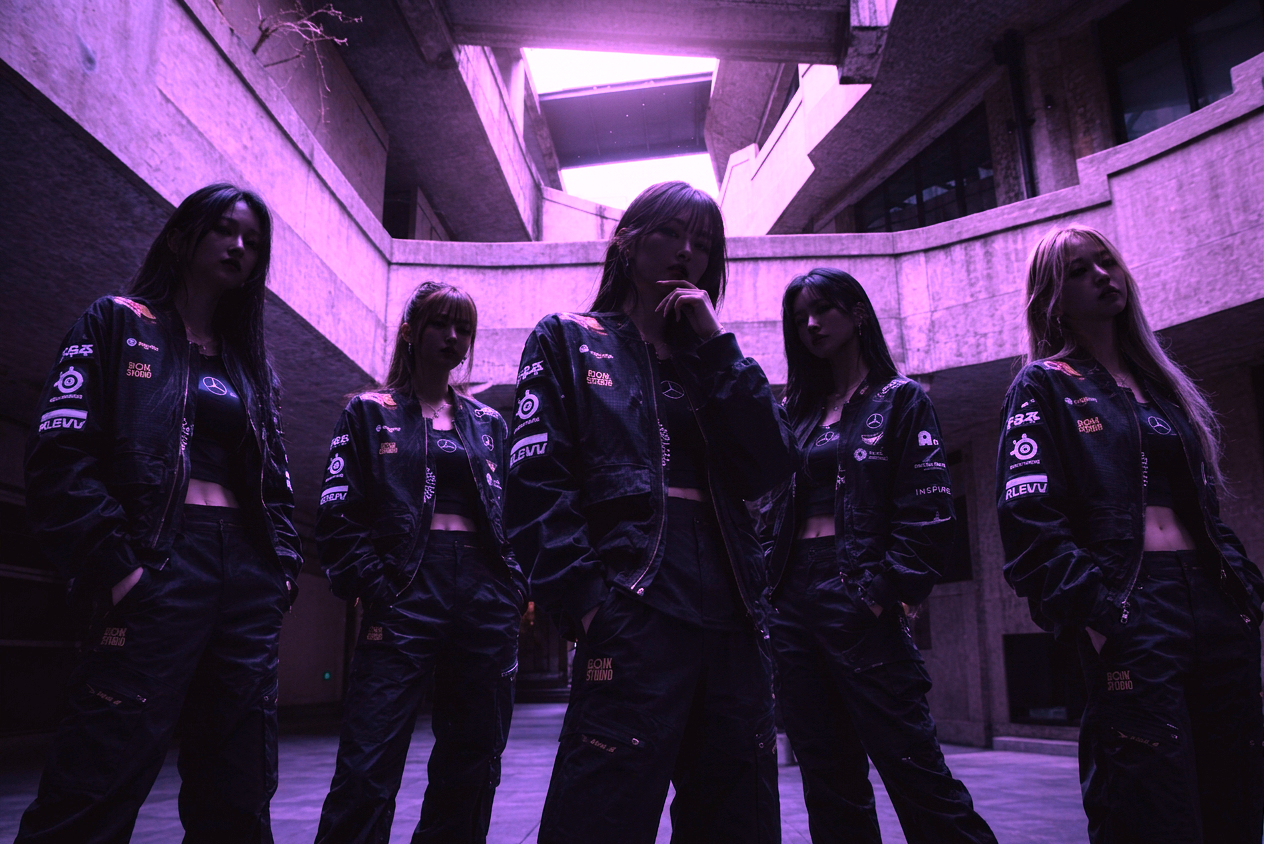
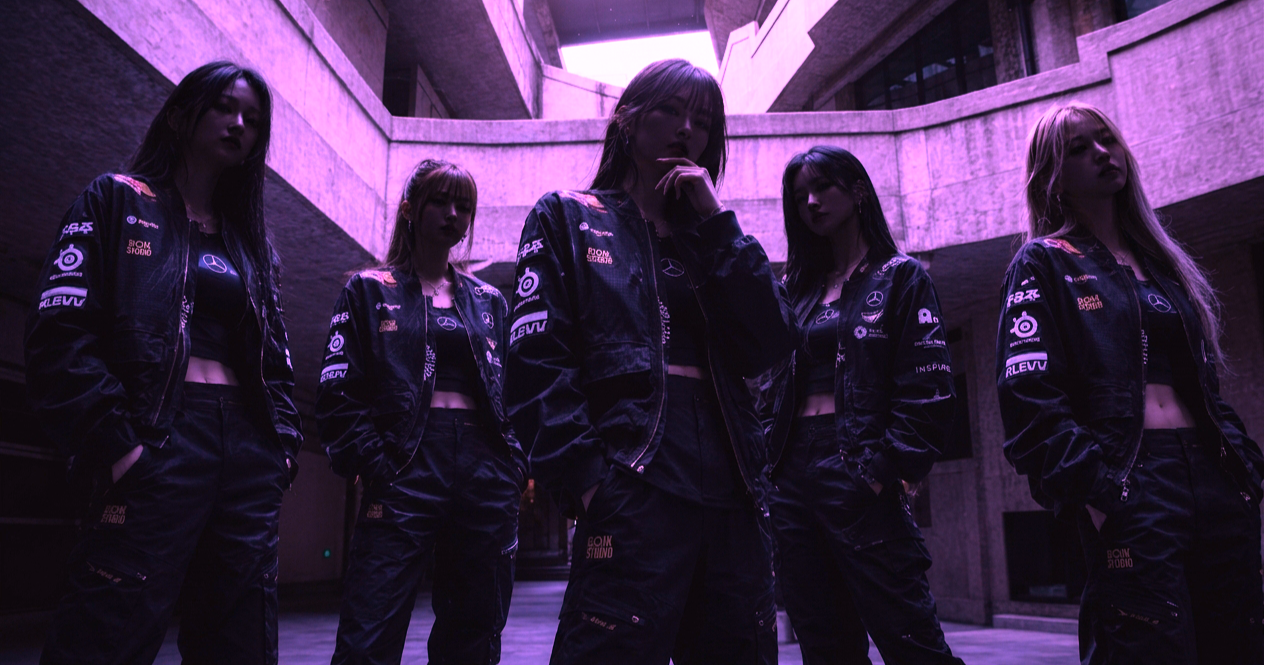
MV&header

diff --git a/css/style.css b/css/style.css
@@ -11,7 +11,7 @@ a{
 }
 
 .header{
-    max-width: 1200px;
+    max-width: 100%;
     height: 85px;
     background-color: #222222;
     margin: 0 auto;
@@ -19,18 +19,22 @@ a{
     border: 3px solid#8E34FD;;
 }
 
+.nav{
+    width: 100%;
+}
+
 .nav-list{
     display: flex;
-    width: 1200px;
+    width: 100%;
 }
 
 .list-left-outer{
+    width: 50%;
     display: flex;
     justify-content: flex-end;
-    gap: 8%;
-    width: 486px;
+    gap: 2.5%;
     height: fit-content;
-    padding: 2.5% 2%;
+    padding: 2% 1%;
 }
 
 .list-content{
@@ -44,24 +48,21 @@ a{
 
 
 .list-logo-outer{
-    width: 230px;
     text-align: center;
     margin-top: 0.5%;
 }
 
 
 .list-right-outer{
+    width: 35%;
     display: flex;
-    gap: 14%;
-    width: 290px;
     height: fit-content;
-    padding: 2.5% 1%;
+    gap: 5%;
+    padding: 2% 1%;
 }
 
-
-
 .list-cta-outer{
-    width: 194px;
+    width: 12%;
     display: flex;
     flex-direction: column;
     justify-content: center;
@@ -79,7 +80,7 @@ a{
 
 #mv{
     width: 100%;
-    height: 1200px;
+    height: fit-content;
     background-color: #222222;
 }
 

diff --git a/index.html b/index.html
@@ -22,7 +22,7 @@
 
 <body>
     <header class="header">
-        <nav claas="nav">
+        <nav class="nav">
             <ul class="nav-list">
 
                <div class="list-left-outer">
@@ -33,7 +33,7 @@
 
                 <div class="list-logo-outer">
                     <a href="">
-                     <img src="img/logo1.png" class="list-logo">
+                     <img src="img/logo1.png" class="list-logo" width="138" height="73"  >
                     </a>
                 </div>
 
@@ -64,7 +64,7 @@
                 // falseならグリッチ処理を停止
                 glitch: true, 
                 // falseなら拡縮を終了
-                scale: true, 
+                scale: false, 
                 // falseで画像の混乱を終了  
                 blend : true, 
                 // エフェクトタイプを指定
